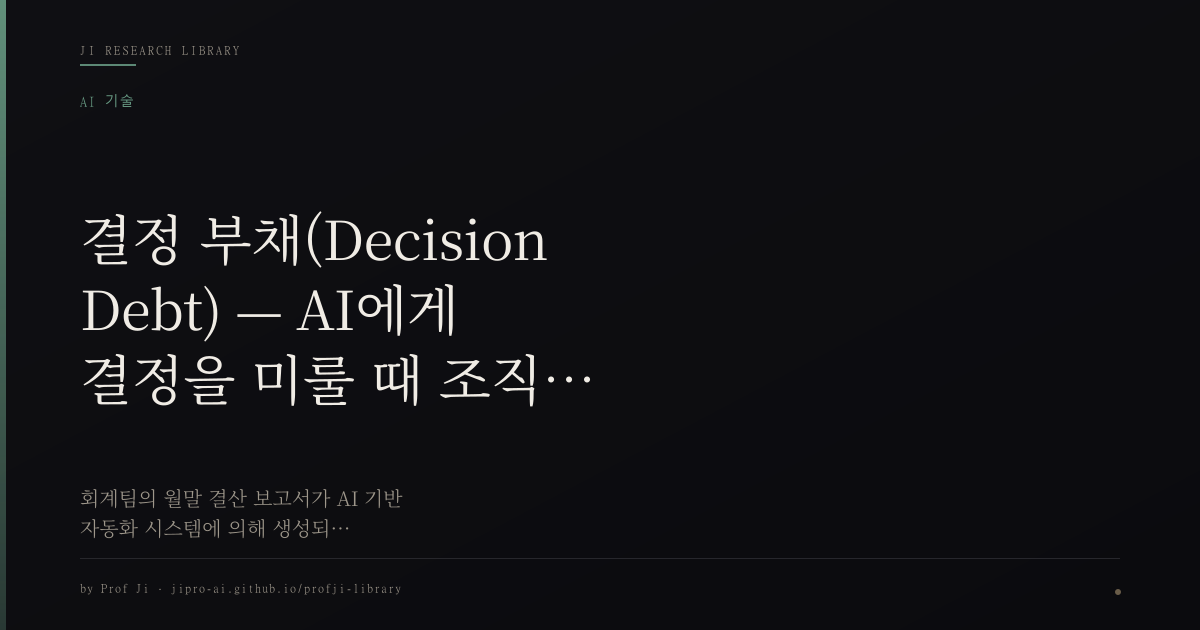
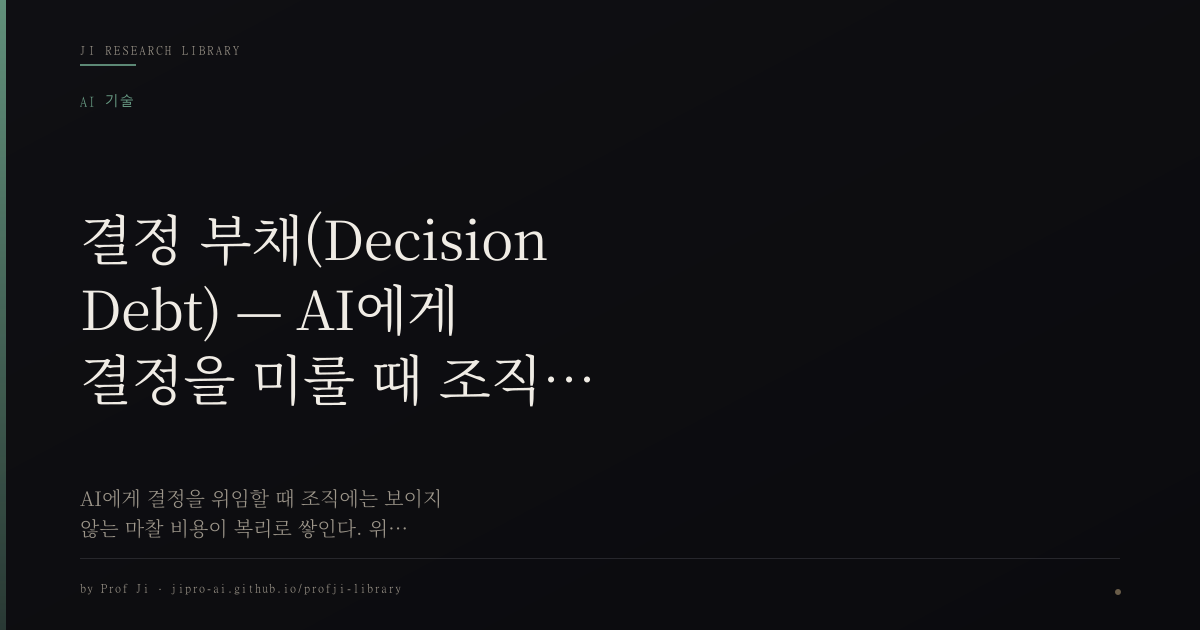
fix: 감사 후속 즉시 수정 — wallet SBT 용어 오류, decision-debt 무근거 수치 정성화·비문 교정
- wallet: '양도 불가능한 토큰(NFT)' → SBT(soulbound token) — NFT는 대체 불가능 토큰
- decision-debt: 참고문헌 요약에 없는 정밀 수치 3건(37%·2.3배·0.45/p<.01) 정성 서술로 교체
- decision-debt: 비문·오타·영어 노출 7건 + frontmatter description 절단 교정

Changed region(s): [[0.0617, 0.754, 0.37, 0.8746]]

diff --git a/src/content/articles/ai-agent-wallet-identity.md b/src/content/articles/ai-agent-wallet-identity.md
@@ -50,7 +50,7 @@ connections:
 
 x402 프로토콜의 미세 결제도 핵심이다. 에이전트가 API 호출 하나, 데이터 조회 하나마다 실시간으로 돈을 받는 환경에서는 전통 결제의 수수료 구조가 안 맞는다. x402는 이걸 해결하면서 매 거래의 전 과정을 블록체인에 남긴다. **이 기록이 에이전트의 '역사'가 되고 그 역사가 곧 신뢰의 바탕이 된다.**
 
-블록체인과 스마트 컨트랙트는 중앙 기구 없이 돌아가는 생태계의 토대다. 중앙 관리자를 없애 에이전트의 보안과 프라이버시를 강화한다[4]. 에이전트가 자기 연산력이나 데이터를 팔 때 생기는 '먹튀' 위험은 양도 불가능한 토큰(NFT) 기반 평판과 에스크로로 막는다. NFT 평판은 남에게 넘길 수 없어서 조작할 이유가 사라진다. 에스크로는 조건이 맞아야 실행되므로 서비스가 안 오면 돈이 자동으로 돌아온다.
+블록체인과 스마트 컨트랙트는 중앙 기구 없이 돌아가는 생태계의 토대다. 중앙 관리자를 없애 에이전트의 보안과 프라이버시를 강화한다[4]. 에이전트가 자기 연산력이나 데이터를 팔 때 생기는 '먹튀' 위험은 양도 불가능한 토큰(SBT, soulbound token) 기반 평판과 에스크로로 막는다. SBT 평판은 남에게 넘길 수 없어서 조작할 이유가 사라진다. 에스크로는 조건이 맞아야 실행되므로 서비스가 안 오면 돈이 자동으로 돌아온다.
 
 실무 장면을 보자. 기업 A의 에이전트가 기업 B의 에이전트에게 시장 분석 보고서를 맡긴다. 3층 구조에서는 이렇게 흐른다. (1) A의 에이전트가 x402로 결제를 예치한다. (2) B의 에이전트가 보고서를 만들어 보낸다. (3) 평가자가 품질을 검증한다. (4) ACP 에스크로가 조건이 맞으면 돈을 푼다. (5) 양쪽의 행위 기록이 각자의 신원(DID)에 쌓인다. 여기서 "오류가 났을 때 누가 어떤 의무를 놓쳤나"에 답하려면 스마트 컨트랙트에 미리 정해둔 책임 분담 비율이 자동으로 실행돼야 한다. 그것이 3층 구조의 핵심이다.
 